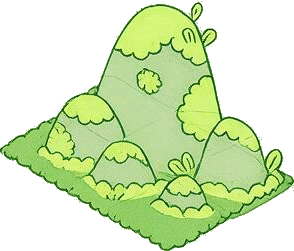
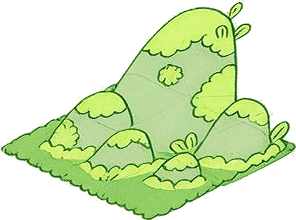
fix(isoworld): les dalles des decors redressees en vrai losange 2:1
Les socles dessines a la main n'etaient pas tous a l'angle isometrique. La
decoupe envoie les trois coins visibles de la dalle — bas, gauche, droite —
sur un losange 2:1 de meme largeur par une affine, et le feuillage suit.

Claude-Session: https://claude.ai/code/session_0181CUemCq7n3GdF1haz2AgB

diff --git a/src/game/isoworld/decor.ts b/src/game/isoworld/decor.ts
@@ -10,7 +10,7 @@
 import { Assets, Texture } from 'pixi.js';
 
 export const DECOR_URL = '/assets/world/decor';
-export const DECOR_MANIFEST_URL = `${DECOR_URL}/manifest.json?v=2`;
+export const DECOR_MANIFEST_URL = `${DECOR_URL}/manifest.json?v=3`;
 
 /** How wide a one-cell base is drawn on the artist's sheet, in pixels. */
 export const SHEET_CELL = 130;
@@ -73,7 +73,7 @@ async function load(): Promise<DecorSet> {
   const entries = (await response.json()) as DecorManifestEntry[];
   const pieces = await Promise.all(
     entries.map(async (entry) => {
-      const texture = await Assets.load<Texture>(`${DECOR_URL}/${entry.file}?v=2`);
+      const texture = await Assets.load<Texture>(`${DECOR_URL}/${entry.file}?v=3`);
       texture.source.scaleMode = 'linear';
       return { ...entry, texture };
     }),

diff --git a/tools/split_decor_elements.py b/tools/split_decor_elements.py
@@ -59,6 +59,12 @@ NAMES: dict[int, str] = {
 MIN_AREA = 1500  # px of a piece's tight box; anything less is a stray mark
 BASE = 0.45      # the lowest share of a piece that is its base, not foliage
 
+# Pieces standing on a drawn slab. The artist's slabs are not all at the
+# 2:1 isometric angle, so each is straightened: an affine map sends the
+# slab's three visible corners — bottom, left, right — onto a true diamond
+# of the same width, and the foliage comes along.
+SLABBED = {'flowers-small', 'meadow-tuft', 'hill-big', 'hill-wide', 'bush-small', 'flowers-patch'}
+
 
 def label(mask: Image.Image) -> list[tuple[tuple[int, int, int, int], Image.Image]]:
     """
@@ -95,6 +101,55 @@ def label(mask: Image.Image) -> list[tuple[tuple[int, int, int, int], Image.Imag
     return regions
 
 
+def straighten(piece: Image.Image) -> Image.Image:
+    """
+    Map the slab's bottom, left and right corners onto a 2:1 diamond of the
+    same width, bottom corner fixed. The corners are read off the alpha: the
+    lowest opaque point, and the extreme points of the piece's lowest share.
+    """
+    a = piece.split()[3]
+    w, h = piece.size
+    pts = [(x, y) for y in range(h) for x in range(w) if a.getpixel((x, y)) > 8]
+    ymax = max(y for _, y in pts)
+    bottom_xs = [x for x, y in pts if y == ymax]
+    B = (sum(bottom_xs) / len(bottom_xs), float(ymax))
+    base = [p for p in pts if p[1] >= h * (1 - BASE)]
+    L = min(base, key=lambda p: p[0])
+    R = max(base, key=lambda p: p[0])
+    width = R[0] - L[0]
+    L2 = (B[0] - width / 2, B[1] - width / 4)
+    R2 = (B[0] + width / 2, B[1] - width / 4)
+    # Forward affine F with F(L)=L2, F(R)=R2, F(B)=B; PIL wants the inverse.
+    src = [L, R, B]
+    dst = [L2, R2, B]
+
+    def solve(src, dst):
+        # Least squares is overkill for three points: solve the 3x3 system per axis.
+        import itertools
+        (x0, y0), (x1, y1), (x2, y2) = src
+        det = x0 * (y1 - y2) - y0 * (x1 - x2) + (x1 * y2 - x2 * y1)
+        out = []
+        for k in range(2):
+            u0, u1, u2 = dst[0][k], dst[1][k], dst[2][k]
+            a_ = (u0 * (y1 - y2) - y0 * (u1 - u2) + (u1 * y2 - u2 * y1)) / det
+            b_ = (x0 * (u1 - u2) - u0 * (x1 - x2) + (x1 * u2 - x2 * u1)) / det
+            c_ = (x0 * (y1 * u2 - y2 * u1) - y0 * (x1 * u2 - x2 * u1) + u0 * (x1 * y2 - x2 * y1)) / det
+            out.append((a_, b_, c_))
+        return out
+
+    inv = solve(dst, src)  # output pixel -> input pixel
+    # Room for the foliage to move: pad the canvas generously, then re-crop.
+    pad = w // 2
+    canvas = Image.new('RGBA', (w + 2 * pad, h + pad), (0, 0, 0, 0))
+    canvas.paste(piece, (pad, pad))
+    (a0, b0, c0), (d0, e0, f0) = inv
+    # Shift for the padding: output (x, y) -> input (x - pad, y - pad) space.
+    data = (a0, b0, c0 - a0 * pad - b0 * pad + pad, d0, e0, f0 - d0 * pad - e0 * pad + pad)
+    out = canvas.transform(canvas.size, Image.AFFINE, data, resample=Image.BICUBIC)
+    tight = out.split()[3].point(lambda v: 255 if v > 8 else 0).getbbox()
+    return out.crop(tight)
+
+
 def main() -> None:
     sheet = Image.open(SOURCE).convert('RGBA')
     alpha = sheet.split()[3].point(lambda a: 255 if a > 8 else 0)
@@ -120,6 +175,9 @@ def main() -> None:
         piece = piece.crop(tight)
         if piece.width * piece.height < MIN_AREA:
             continue
+        name = NAMES.get(len(manifest), f'decor-{len(manifest):02d}')
+        if name in SLABBED:
+            piece = straighten(piece)
         a = piece.split()[3]
         # The base: the widest opaque row in the piece's lowest share.
         base, centre = 0, piece.width / 2
@@ -130,7 +188,6 @@ def main() -> None:
                 centre = (row[0] + row[-1]) / 2
         anchor = (round(centre), piece.height - 1)
         i = len(manifest)
-        name = NAMES.get(i, f'decor-{i:02d}')
         piece.save(OUT / f'{name}.png', optimize=True)
         cells = 1 if base < ONE_CELL else 2 if base < 2 * ONE_CELL else 3
         manifest.append({'name': name, 'file': f'{name}.png', 'width': piece.width, 'height': piece.height, 'anchor': anchor, 'base': base, 'cells': cells})
